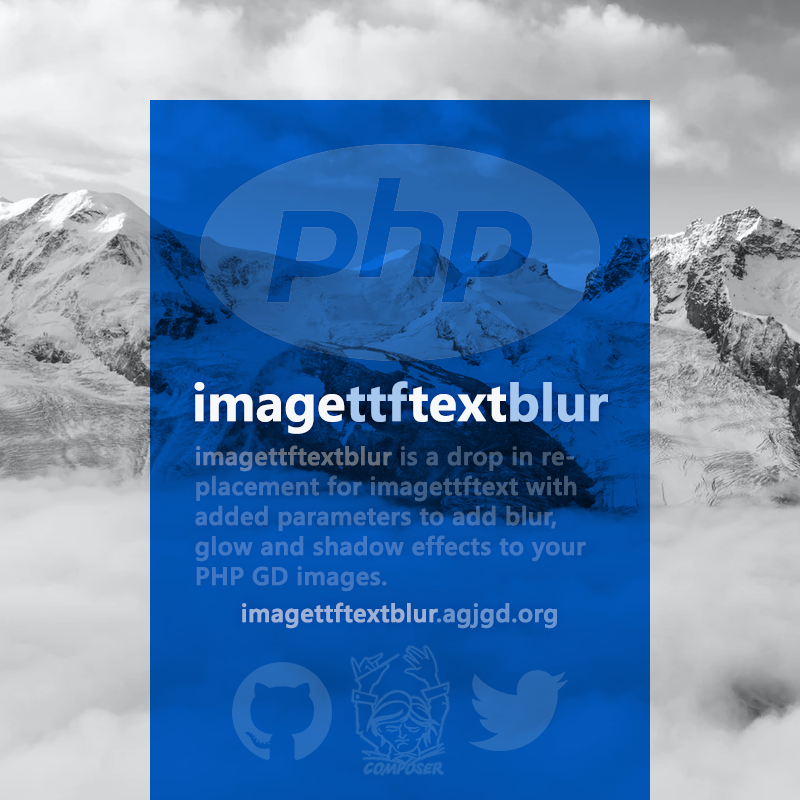
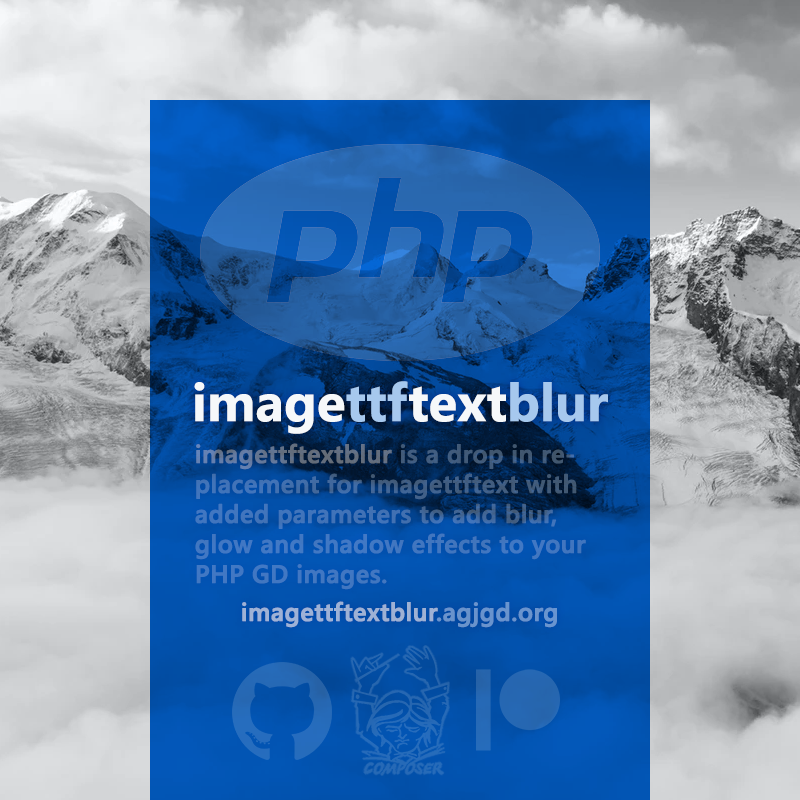
v1.2.18

diff --git a/documentation/imagettftextblur.agjgd.org/layouts/layout.html b/documentation/imagettftextblur.agjgd.org/layouts/layout.html
@@ -138,7 +138,10 @@
                                 <a href="https://packagist.org/packages/andrewgjohnson/imagettftextblur" title="imagettftextblur on Packagist">imagettftextblur on Packagist</a>
                             </li>
                             <li>
-                                <a href="https://twitter.com/imagettftextblu" title="imagettftextblur on Twitter">imagettftextblur on Twitter</a>
+                                <a href="https://twitter.com/agjgdphp" title="imagettftextblur on Twitter">imagettftextblur on Twitter</a>
+                            </li>
+                            <li>
+                                <a href="https://www.patreon.com/agjgd" title="imagettftextblur on Patreon">imagettftextblur on Patreon</a>
                             </li>
                         </ul>
                     </div>
@@ -168,7 +171,7 @@
         </header>
         <footer>
             <div id="footer">
-                <p>Copyright &#169; 2013-2022</p>
+                <p><a href="https://agjgd.org" title="agjgd.org">agjgd.org</a> &#169; 2013-2022</p>
             </div>
         </footer>
         <b id="cover-image"></b>

diff --git a/README.md b/README.md
@@ -1,17 +1,22 @@
 # imagettftextblur
 
[1 lines of base64/hex data omitted]
-[![Current Release](https://img.shields.io/github/release/andrewgjohnson/imagettftextblur.png?colorB=0366d6&logo=github)](https://github.com/andrewgjohnson/imagettftextblur/releases)
-[![GitHub Stars](https://img.shields.io/github/stars/andrewgjohnson/imagettftextblur.png?colorB=0366d6&logo=github)](https://github.com/andrewgjohnson/imagettftextblur/stargazers)
-[![Contributors](https://img.shields.io/github/contributors/andrewgjohnson/imagettftextblur.png?colorB=0366d6&logo=github)](https://github.com/andrewgjohnson/imagettftextblur/graphs/contributors)
[1 lines of base64/hex data omitted]
-[![Issues](https://img.shields.io/github/issues/andrewgjohnson/imagettftextblur.png?colorB=0366d6&logo=github)](https://github.com/andrewgjohnson/imagettftextblur/issues)
[1 lines of base64/hex data omitted]
+[![Current Release](https://img.shields.io/github/release/andrewgjohnson/imagettftextblur.png?colorB=0366d6&style=flat-square&logoColor=white&logo=github)](https://github.com/andrewgjohnson/imagettftextblur/releases)
+[![GitHub Stars](https://img.shields.io/github/stars/andrewgjohnson/imagettftextblur.png?colorB=0366d6&style=flat-square&logoColor=white&logo=github)](https://github.com/andrewgjohnson/imagettftextblur/stargazers)
+[![Contributors](https://img.shields.io/github/contributors/andrewgjohnson/imagettftextblur.png?colorB=0366d6&style=flat-square&logoColor=white&logo=github)](https://github.com/andrewgjohnson/imagettftextblur/graphs/contributors)
+[![Packagist Downloads](https://img.shields.io/packagist/dt/andrewgjohnson/imagettftextblur.png?colorB=0366d6&style=flat-square&logoColor=white&logo=packagist)](https://packagist.org/packages/andrewgjohnson/imagettftextblur/stats)
+[![Issues](https://img.shields.io/github/issues/andrewgjohnson/imagettftextblur.png?colorB=0366d6&style=flat-square&logoColor=white&logo=github)](https://github.com/andrewgjohnson/imagettftextblur/issues)
+[![Patreon](https://img.shields.io/endpoint.png?url=https%3A%2F%2Fshieldsio-patreon.vercel.app%2Fapi%3Fusername%3Dagjgd%26type%3Dpatrons&colorB=0366d6&style=flat-square&logoColor=white&logo=patreon)](https://patreon.com/agjgd)
 
 <p align="center"><a href="https://imagettftextblur.agjgd.org/" title=""><img src="https://imagettftextblur.agjgd.org/documentation/imagettftextblur.agjgd.org/images/avatar.png" alt="" title="" width="400" id="avatar" /></a></p>
 
 ## Description
 
 **imagettftextblur** is a drop in replacement for imagettftext with added parameters to add blur, glow and shadow effects to your PHP GD images.
+
+[![Patreon - Become a Patron](https://raster.shields.io/badge/Patreon%20-become%20a%20Patron-FD334A.png?style=for-the-badge&logo=patreon&logoColor=FD334A)](https://patreon.com/agjgd)
+
+**imagettftextblur** is an [agjgd.org](https://agjgd.org) projectfs
 
 ## Usage
 
@@ -50,13 +55,17 @@ There are [other examples](https://github.com/andrewgjohnson/imagettftextblur/tr
 
 ## Help Requests
 
-Please post any questions on [stackoverflow.com](https://stackoverflow.com/search?q=imagettftextblur) if you need help.
+Please post any questions in the [discussions area](https://github.com/andrewgjohnson/imagettftextblur/discussions) on GitHub if you need help.
 
 If you discover a bug please [enter an issue](https://github.com/andrewgjohnson/imagettftextblur/issues/new) on GitHub.  When submitting an issue please use our [issue template](https://github.com/andrewgjohnson/imagettftextblur/blob/master/ISSUE_TEMPLATE.md).
 
 ## Contributing
 
 Please read our [contributing guidelines](https://github.com/andrewgjohnson/imagettftextblur/blob/master/CONTRIBUTING.md) if you want to contribute.
+
+You can contribute financially by becoming a [patron](https://patreon.com/agjgd) at [patreon.com/agjgd](https://patreon.com/agjgd) to support imagettftextblur and [other agjgd.org projects](https://agjgd.org/projects/).
+
+[![Patreon - Become a Patron](https://raster.shields.io/badge/Patreon%20-become%20a%20Patron-FD334A.png?style=for-the-badge&logo=patreon&logoColor=FD334A)](https://patreon.com/agjgd)
 
 ## Acknowledgements
 
@@ -66,7 +75,7 @@ Full list of contributors:
  * [Andrew G. Johnson (@andrewgjohnson)](https://github.com/andrewgjohnson)
  * [Philip van Heemstra (@vHeemstra)](https://github.com/vHeemstra)
 
-Our [issue template](https://github.com/andrewgjohnson/imagettftextblur/blob/master/ISSUE_TEMPLATE.md) & [pull request template](https://github.com/andrewgjohnson/imagettftextblur/blob/master/PULL_REQUEST_TEMPLATE.md) come via the [stevemao/github-issue-templates](https://github.com/stevemao/github-issue-templates) project. The [mountains photo](https://unsplash.com/photos/qJvpykJ5SKs) comes via [Gabriel Garcia Marengo](https://unsplash.com/@gabrielgm).
+Our [security policies and procedures](https://github.com/andrewgjohnson/imagettftextblur/blob/master/.github/SECURITY.md) comes via the [atomist/samples](https://github.com/atomist/samples/blob/master/SECURITY.md) project. Our [issue template](https://github.com/andrewgjohnson/imagettftextblur/blob/master/ISSUE_TEMPLATE.md) & [pull request template](https://github.com/andrewgjohnson/imagettftextblur/blob/master/.github/PULL_REQUEST_TEMPLATE.md) come via the [stevemao/github-issue-templates](https://github.com/stevemao/github-issue-templates) project. The [mountains photo](https://unsplash.com/photos/qJvpykJ5SKs) comes via [Gabriel Garcia Marengo](https://unsplash.com/@gabrielgm).
 
 ## Changelog
 

diff --git a/.github/SECURITY.md b/.github/SECURITY.md
@@ -1,0 +1,23 @@
+# imagettftextblur Security Policies and Procedures
+
+This document outlines security procedures and general policies for the imagettftextblur project as found on https://github.com/andrewgjohnson/imagettftextblur.
+
+## Reporting a Vulnerability
+
+The imagettftextblur team and community take all security vulnerabilities seriously. Thank you for improving the security of our software. We appreciate your efforts and responsible disclosure and will make every effort to acknowledge your contributions.
+
+Report security vulnerabilities by emailing the imagettftextblur team at:
+
+    agjgd.org@gmail.com
+
+The lead maintainer will acknowledge your email as soon as possible, and will send a more detailed response shortly afterward indicating the next steps in handling your report. After the initial reply to your report, the security team will endeavor to keep you informed of the progress towards a fix and full announcement, and may ask for additional information or guidance.
+
+Report security vulnerabilities in third-party modules to the person or team maintaining the module.
+
+## Disclosure Policy
+
+When the team receives a security bug report, they will assign it to a primary handler. This person will coordinate the fix and release process, involving the following steps:
+
+  * Confirm the problem and determine the affected versions.
+  * Audit code to find any potential similar problems.
+  * Prepare fixes for all releases still under maintenance. These fixes will be released as fast as possible.

diff --git a/.github/SUPPORT.md b/.github/SUPPORT.md
@@ -1,0 +1,15 @@
+# Support for imagettftextblur
+
+We use GitHub for tracking bugs, feature requests and the discussions area.
+
+## Issue Tracking
+
+You can find our open issues (bugs and requests) on [GitHub](https://github.com/andrewgjohnson/imagettftextblur/issues).
+
+## Discussions Area
+
+You can find our discussions area on [GitHub](https://github.com/andrewgjohnson/imagettftextblur/discussions).
+
+## Financial Support
+
+You can financially support imagettftextblur on [Patreon](https://patreon.com/agjgd).

diff --git a/CHANGELOG.md b/CHANGELOG.md
@@ -4,6 +4,9 @@ All notable changes to the [imagettftextblur project](https://github.com/andrewg
 
 The format is based on [Keep a Changelog](http://keepachangelog.com/) and this project adheres to [Semantic Versioning](http://semver.org/).
 
+## v1.2.18 (November 21, 2022)
+ * tk
+
 ## v1.2.17 (November 17, 2022)
  * Changed documentation website to [imagettftextblur.agjgd.org](https://imagettftextblur.agjgd.org)
  * Updated copyright years to 2022
